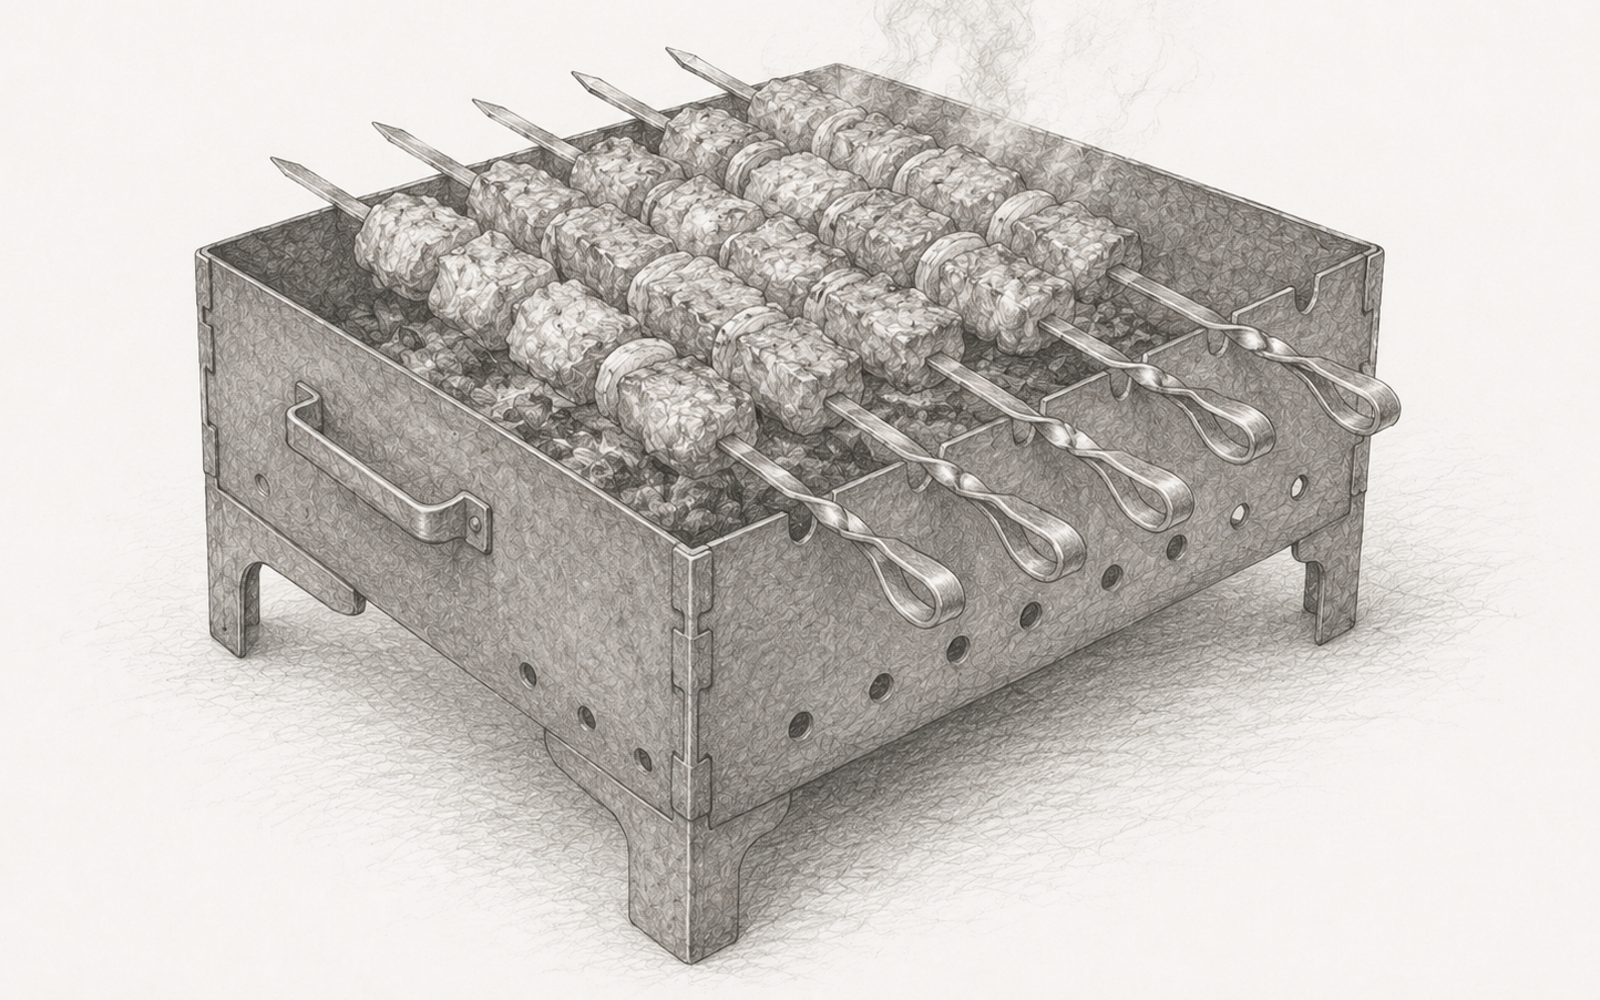
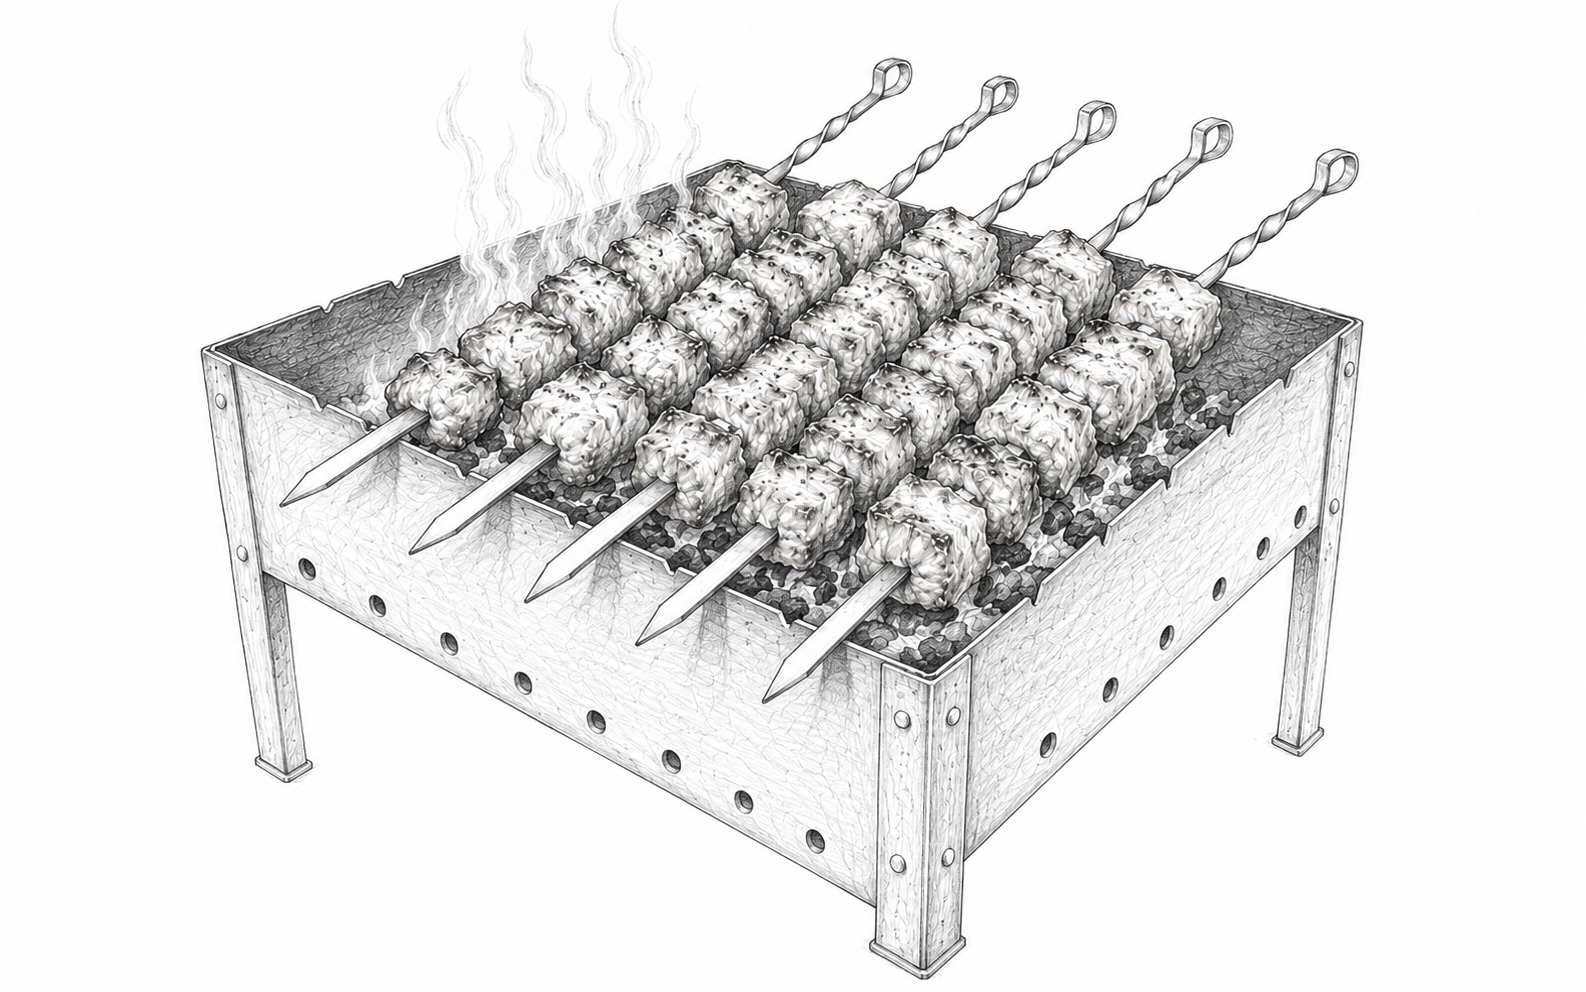
new blog and ui improvements

diff --git a/src/styles/global.css b/src/styles/global.css
@@ -252,10 +252,26 @@ img {
   --photo-tape-tilt: -2.6deg;
 }
 
+.photo-card--format {
+  --photo-card-width: 680px;
+  --photo-card-tilt: -1.4deg;
+  --photo-tape-left: 49%;
+  --photo-tape-tilt: 2.2deg;
+}
+
+.photo-card--squat {
+  --photo-card-width: 680px;
+  --photo-card-tilt: 1.5deg;
+  --photo-tape-left: 52%;
+  --photo-tape-tilt: -2.4deg;
+}
+
 .hero-illustration,
 .page-hero__illustration,
 .about-illustration,
 .practice-illustration,
+.format-illustration,
+.books-promo-illustration,
 .blog-article__illustration {
   width: 100%;
   border: 8px solid #fffdf8;
@@ -457,11 +473,12 @@ h3 {
 }
 
 .content-band--alt {
-  background: var(--paper-strong);
+  background: var(--paper);
 }
 
 .content-band--topics {
   border-top: 1px solid var(--line);
+  background: var(--bg);
 }
 
 .content-band--practice {
@@ -598,9 +615,12 @@ h3 {
   justify-self: end;
 }
 
-.text-section,
-.toc-section {
+.text-section {
   background: var(--bg);
+}
+
+.toc-section {
+  background: var(--paper);
 }
 
 .section-heading {
@@ -859,19 +879,8 @@ dd {
   max-width: 1080px;
 }
 
-.format-illustration {
-  max-width: 1080px;
-  margin: 34px 0 0;
-}
-
-.format-illustration img {
-  width: 100%;
-  border: 8px solid #fffdf8;
-  border-radius: 8px;
-  background: #fffdf8;
-  box-shadow: 0 18px 50px rgba(25, 12, 8, 0.16);
-}
-
+.books-promo-layout,
+.format-layout,
 .about-layout {
   display: grid;
   grid-template-columns: minmax(0, 1fr) minmax(420px, 680px);
@@ -880,31 +889,43 @@ dd {
   align-items: center;
 }
 
+.books-promo-layout__copy,
+.format-layout__copy,
 .about-layout__copy {
   min-width: 0;
 }
 
+.books-promo-layout .section-heading,
+.format-layout .section-heading,
 .about-layout .section-heading {
   max-width: 760px;
 }
 
+.books-promo-layout .prose-columns,
+.format-layout .prose-columns,
 .about-layout .prose-columns {
   grid-template-columns: 1fr;
   max-width: 700px;
   gap: 14px;
 }
 
+.books-promo-layout__visual,
+.format-layout__visual,
 .about-layout__visual {
   justify-self: end;
 }
 
 @media (max-width: 1180px) {
+  .books-promo-layout,
   .about-layout,
+  .format-layout,
   .practice-layout {
     grid-template-columns: 1fr;
   }
 
+  .books-promo-layout__visual,
   .about-layout__visual,
+  .format-layout__visual,
   .practice-layout__visual {
     justify-self: start;
     width: min(100%, 820px);

diff --git a/src/lib/blog.ts b/src/lib/blog.ts
@@ -26,6 +26,10 @@ export type BlogPost = {
 
 const blogSources: BlogSource[] = [
   {
+    slug: "pochemu-prostaya-eda-kazhetsya-radikalnoy",
+    sourcePath: path.join(root, "src", "content", "blog", "pochemu-prostaya-eda-kazhetsya-radikalnoy.md"),
+  },
+  {
     slug: "rebenok-ne-rodilsya-s-pechenem-v-ruke",
     sourcePath: path.join(root, "src", "content", "blog", "rebenok-ne-rodilsya-s-pechenem-v-ruke.md"),
   },

diff --git a/src/content/blog/pochemu-prostaya-eda-kazhetsya-radikalnoy.md b/src/content/blog/pochemu-prostaya-eda-kazhetsya-radikalnoy.md
@@ -1,0 +1,193 @@
+---
+title: "Почему простая еда кажется радикальной"
+description: "Почему мясо, яйца, рыба, жир, соль и вода выглядят экстремально только на фоне сахара, хлеба, перекусов, соусов, растительных масел и еды из упаковок."
+publishedAt: "2026-05-13"
+updatedAt: "2026-05-13"
+image: "/images/karnivor-simple-food.png"
+imageAlt: "Простая карнивор-еда"
+tags:
+  - карнивор
+  - простая еда
+  - мясо
+  - питание
+---
+
+Есть странный момент, который почти каждый карнивор рано или поздно переживает. Ты говоришь, что ешь мясо, яйца, рыбу, жир, соль и пьёшь воду — и люди начинают смотреть на тебя так, будто ты вступил в опасную секту. «А где овощи?», «А как же клетчатка?», «А это не вредно?», «А ты не слишком себя ограничиваешь?», «А долго так вообще можно?»
+
+При этом рядом человек может спокойно завтракать сладкими хлопьями, пить кофе с сиропом, есть печенье к чаю, добавлять хлеб к каждому блюду, перекусывать батончиком, поливать еду соусом из бутылки, жарить на растительном масле, вечером пить пиво и заедать всё пиццей. И это никого особенно не тревожит. Это называется «обычная еда».
+
+Вот в этом и проблема. Простая еда стала выглядеть радикально не потому, что она радикальна. А потому что сама норма давно перестала быть нормальной.
+
+Мясо, яйца, рыба, соль и вода выглядят экстремально только в мире, который сошёл с ума от сахара, хлеба, перекусов, соусов, растительных масел и еды из упаковок.
+
+## Когда мясо стало экстремизмом
+
+Представьте обычную сцену. Вы сидите за столом и едите стейк. Или яйца. Или рыбу. Без хлеба, без картошки, без салата, без сладкого соуса, без десерта и без «чего-нибудь к чаю». Просто едите нормальную животную пищу.
+
+И почти сразу начинается тревога.
+
+«Ты что, только мясо ешь?»  
+«Это же вредно».  
+«Нельзя так ограничивать рацион».  
+«Нужен баланс».  
+«Надо есть всё в меру».  
+«А как же овощи?»  
+«А как же фрукты?»  
+«А как же крупы?»
+
+Самое смешное, что обычно это говорят люди, чей собственный рацион состоит из хлеба, сахара, растительного масла, кофеина, перекусов, соусов, магазинных десертов и случайного белка где-то на фоне. Но они не считают это странным. Странным считается не постоянное жевание, не сладкий завтрак, не печенье каждый день и не хлеб к каждому приёму пищи. Странным считается отказ от всего лишнего.
+
+Современный человек боится не пищевого мусора. Он боится пустого места там, где этот мусор обычно лежал.
+
+## Норма, которая давно перестала быть нормальной
+
+Давайте честно посмотрим, что сегодня считается обычной едой. Не праздничной, не экстремальной, не «срывом», а именно обычной.
+
+Обычная современная еда — это:
+
+- хлопья на завтрак;
+- сладкие йогурты;
+- хлеб к супу, мясу, яйцам и почти всему остальному;
+- батончики «для энергии»;
+- печенье к чаю;
+- кофе с сахаром, молоком, сиропом или десертом;
+- соусы из бутылки;
+- сладкие напитки;
+- фастфуд;
+- растительные масла;
+- маргарин и спреды;
+- перекусы между перекусами;
+- «что-нибудь сладенькое» после еды.
+
+И вот на этом фоне мясо, яйца, рыба, соль и вода вдруг выглядят как ограничение. Хотя если убрать культурный шум, всё становится наоборот. Простая животная еда — это не странность. Странность — это мир, где человек не может прожить несколько часов без перекуса, не может пить воду без вкуса, не может есть мясо без соуса, не может пить чай без печенья и не может представить праздник без сахара.
+
+Мы настолько привыкли к пищевому шуму, что тишина стала казаться опасной.
+
+## Норма, которая появилась вчера
+
+Есть ещё одна неприятная деталь: большая часть современной «обычной еды» вовсе не такая древняя и естественная, как кажется. Хлопья на завтрак, сладкие йогурты, батончики, маргарин, промышленные растительные масла, фабричные соусы, сладкие напитки и постоянные перекусы — это не вечная человеческая традиция. Это в основном продукты индустриальной эпохи.
+
+Маргарин появился только в конце XIX века: его история как промышленного заменителя масла начинается примерно с этого периода, о чём можно прочитать в [исторической справке о маргарине](https://www.britannica.com/topic/margarine). Готовые завтраки и хлопья — тоже продукт конца XIX — начала XX века; это не древняя пища человека, а относительно новый промышленный формат еды, что видно даже по [истории готовых завтраков](https://www.britannica.com/topic/breakfast-cereal).
+
+Сахар сам по себе известен давно, но массовое потребление сахара в современном масштабе — явление сравнительно недавнее. Оно резко выросло в XIX–XX веках вместе с удешевлением производства, переработкой, торговлей и пищевой промышленностью. А промышленные масла стали по-настоящему массовой частью рациона уже в XX веке: например, по оценкам исследователей, потребление соевого масла на душу населения в США выросло более чем в тысячу раз с 1909 по 1999 год; это разбирается в [работе о росте потребления соевого масла и изменении состава жиров в рационе](https://pubmed.ncbi.nlm.nih.gov/21367944/).
+
+И вот здесь переворачивается весь разговор. Когда человек ест мясо, яйца, рыбу, соль и пьёт воду, ему говорят: «Ты слишком радикален». Но что здесь радикального? Животная пища сопровождала человека задолго до супермаркетов, хлопьев, батончиков, маргарина и бутылок с растительным маслом.
+
+Радикальна не простая еда. Радикальна новая норма, которая за пару поколений успела притвориться вечной.
+
+## Простота пугает, потому что она ничего не прячет
+
+Промышленная еда почти всегда что-то маскирует. Сахар маскирует пустоту вкуса. Соус маскирует плохой продукт. Хлеб создаёт иллюзию полноты тарелки. Растительное масло делает сухую еду скользкой и удобной. Ароматизаторы создают ощущение насыщенности там, где самой еды почти нет. Перекусы маскируют неспособность нормально наесться.
+
+Простая еда ничего не маскирует.
+
+Мясо либо хорошее, либо нет. Яйца либо нормальные, либо нет. Рыба либо свежая, либо нет. Жир либо вкусный, либо нет. Вода либо утоляет жажду, либо человек давно привык пить не воду, а сладкую стимуляцию.
+
+Простота страшна, потому что она убирает декорации. Она не развлекает. Не подмигивает упаковкой. Не обещает «новый вкус». Не создаёт иллюзию праздника на каждый день. Не работает как награда за плохое настроение. Она просто кормит.
+
+А современному человеку часто уже мало, чтобы еда просто кормила. Ему нужно, чтобы она успокаивала, отвлекала, развлекала, награждала, возбуждала и постоянно давала новый вкус. Поэтому простая пища кажется бедной. Не потому, что она бедная, а потому что мозг привык к пищевой дискотеке.
+
+## Карнивор как минимализм, а не безумие
+
+Карнивор часто описывают как что-то дикое: «диета хищника», «только мясо», «крайность», «фанатизм». Но на практике его можно увидеть иначе: как пищевой минимализм.
+
+Это не попытка добавить в жизнь ещё одну сложную систему. Это попытка убрать лишнее:
+
+- сахар;
+- хлеб;
+- крупы;
+- растительные масла;
+- сладкие напитки;
+- соусы;
+- десерты;
+- перекусы;
+- продукты из упаковок;
+- постоянную зависимость от вкусовых стимулов.
+
+Остаётся простая база: мясо, жир, яйца, рыба, соль, вода. Для кого-то ещё молочные продукты, если нормально переносятся. Для кого-то кофе или специи как переходный вариант. Но сама логика простая: меньше шума, больше настоящей еды.
+
+И вдруг оказывается, что страшно не есть просто. Страшно увидеть, сколько лишнего было вокруг еды. Страшно понять, что большая часть «разнообразия» была не разнообразием питания, а разнообразием стимуляции.
+
+## Почему люди защищают сложную еду
+
+Еда — это не только физиология. Это семья, детство, праздники, гости, бабушки, привычки, утешение, награда, статус и социальные ритуалы. Поэтому, когда человек отказывается от хлеба, сахара, алкоголя, гарниров, десертов и соусов, окружающие часто воспринимают это не как пищевой выбор, а как нападение на их образ жизни.
+
+Ты просто ешь мясо. А они слышат: «Ваша еда неправильная».
+
+Ты просто пьёшь воду. А они слышат: «Ваш сок, чай с сахаром, пиво и лимонад — мусор».
+
+Ты просто не берёшь торт. А они слышат: «Ваш праздник фальшивый».
+
+Ты просто не ешь хлеб. А они слышат: «Ваша семейная традиция под вопросом».
+
+Поэтому люди защищают не только картошку, печенье или салат с майонезом. Они защищают свою нормальность. Им хочется верить, что всё привычное безопасно. Что детство было правильным. Что семейные застолья были заботой. Что бабушкина конфета была любовью. Что хлеб «всему голова». Что сладкое — это радость. Что алкоголь — это отдых. Что растительное масло — это прогресс.
+
+Простая еда опасна для этой системы не потому, что она агрессивна. А потому что она молча показывает: можно иначе.
+
+## «Ограничение» или освобождение?
+
+Обычная претензия к карнивору звучит так: «Ты себя ограничиваешь». Но вопрос в том, кто реально ограничен.
+
+Человек, который может поесть мясо, насытиться и забыть о еде на несколько часов? Или человек, которому нужен завтрак, перекус, кофе с сахаром, булочка, обед с хлебом, десерт, второй кофе, ещё один перекус, ужин, чай с печеньем и что-то перед сном?
+
+Кто свободнее: тот, кто спокойно пьёт воду, или тот, кому нужна газировка, сок, сироп, молоко, сахар, вкус, пузырьки и стимуляция? Тот, кто может съесть стейк без соуса, или тот, кто не чувствует еду без кетчупа, майонеза, чесночного соуса, сладкого чили и хлеба?
+
+Карнивор выглядит ограничением только снаружи. Изнутри он может ощущаться как освобождение от постоянного пищевого шума. Меньше решений. Меньше соблазнов. Меньше торга с собой. Меньше «что бы такого съесть». Меньше зависимости от упаковок, кафе, доставки, перекусов и сладких ритуалов.
+
+Когда еда простая, она перестаёт занимать весь день.
+
+## Радикально не мясо. Радикальна современная еда
+
+Радикально не есть мясо, яйца и рыбу. Радикально — кормить детей хлопьями с сахаром и называть это завтраком. Радикально — пить сладкие напитки каждый день и считать это нормой. Радикально — есть каждые два часа и думать, что это здоровый режим. Радикально — жарить на промышленном растительном масле, но бояться сливочного. Радикально — считать печенье лёгким перекусом, а кусок мяса тяжёлой пищей.
+
+Радикально — жить в мире, где вода кажется скучной, жир кажется опасным, мясо требует оправданий, а сахар продаётся как любовь, праздник и забота.
+
+Радикально — бояться соли, но спокойно есть продукты из упаковок. Радикально — бояться холестерина в яйцах, но давать ребёнку сладкий йогурт. Радикально — считать натуральный животный жир проблемой, но не замечать состав соуса из бутылки. Радикально — называть простую еду «крайностью», а фастфуд, булки, сладкие напитки и перекусы «жизнью».
+
+Современная еда настолько странная, что нормальная пища стала выглядеть как вызов.
+
+## Простая еда возвращает контроль
+
+Когда человек ест простую пищу, исчезает большая часть пищевого хаоса. Не нужно думать, какой батончик выбрать. Не нужно искать «полезный перекус». Не нужно читать состав йогурта с клубничным вкусом. Не нужно спорить с собой у полки печенья. Не нужно решать, какой соус подходит к мясу. Не нужно каждые два часа искать маленькую награду.
+
+Мясо. Яйца. Рыба. Жир. Соль. Вода.
+
+Для человека, привыкшего к постоянной стимуляции, это звучит бедно. Для тела это может оказаться ясностью.
+
+Простая еда возвращает прямую связь: голод — еда — насыщение. Без спектакля. Без десерта как финального аккорда. Без хлеба как обязательного фона. Без сладкого напитка как утешения. Без перекуса как эмоциональной подпорки.
+
+Именно поэтому простая еда может раздражать окружающих. Она не только меняет тарелку. Она меняет отношения с едой. А это уже опаснее, чем просто отказаться от хлеба.
+
+## Почему «всё в меру» часто означает «не трогай мою привычку»
+
+Когда разговор заходит о простой еде, почти всегда появляется фраза: «Нужно просто есть всё в меру». На первый взгляд звучит разумно. Но в реальности эта фраза часто означает другое: «Не заставляй меня пересматривать мои привычки».
+
+«Всё в меру» редко применяют к мясу, яйцам и рыбе. Эту фразу обычно достают, когда надо защитить сахар, хлеб, алкоголь, десерты, выпечку и фастфуд. Человек может годами есть сладкое каждый день, но назвать это «умеренностью». Может пить алкоголь каждые выходные, но назвать это «культурным отдыхом». Может перекусывать каждые пару часов, но назвать это «нормальным режимом».
+
+А потом он видит человека, который убрал лишнее, и говорит: «Ты слишком радикален».
+
+Но отказ от мусора — это не обязательно радикализм. Иногда это просто трезвость.
+
+## Простая еда не требует рекламы
+
+Есть ещё один важный признак. Настоящая еда почти не нуждается в рекламе. Мясо не должно обещать «новый вкус сезона». Яйцам не нужен мультяшный герой на упаковке. Рыба не должна притворяться десертом. Вода не должна называться «заряженной энергией». Соль не должна продавать человеку мечту о счастье.
+
+А вот промышленной еде реклама нужна постоянно. Потому что её нужно встроить в эмоции. Её нужно привязать к детству, празднику, спорту, романтике, семейному уюту, успеху, отдыху, заботе и награде. Батончик должен быть не просто батончиком, а «энергией». Йогурт — не просто сахаром в стаканчике, а «здоровьем». Хлопья — не просто сладкой крупой, а «отличным началом дня». Соус — не просто смесью вкусовых стимулов, а «секретом блюда».
+
+Простая еда такой маски не носит. Она слишком честная для рынка, который живёт на постоянном возбуждении желания.
+
+## Возможно, радикальность — это просто честность
+
+Может быть, мясо, яйца, рыба, соль и вода не радикальны. Может быть, это просто еда.
+
+А радикальным стало всё остальное: сахар на завтрак, хлеб к каждому блюду, соусы к каждому куску, перекусы между перекусами, сладкие напитки вместо воды, страх перед животным жиром и вера в то, что продукты из упаковок — это нормальная основа жизни.
+
+Простая еда кажется экстремальной только в мире, где нормой стала пищевая истерия. В мире, где человек уже не отличает голод от скуки, жажду от привычки, праздник от сахара, заботу от конфеты, насыщение от набитого живота, а настоящую пищу от промышленного развлечения.
+
+Иногда самый радикальный поступок — не добавить ещё один продукт, не найти новый суперфуд, не купить новую добавку, не скачать новое приложение для подсчёта калорий и не составить идеальное меню на месяц.
+
+Иногда самый радикальный поступок — наконец убрать лишнее.
+
+Оставить мясо. Оставить яйца. Оставить рыбу. Оставить жир. Оставить соль. Оставить воду.
+
+И посмотреть, что останется от голода, привычек, страхов и всей этой шумной современной нормы, когда еда снова становится едой.